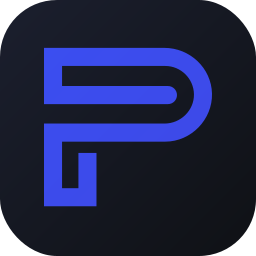
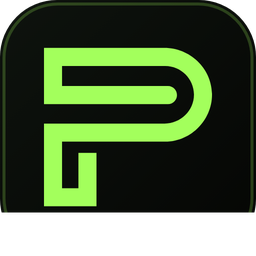
Web: skutečná značka místo zástupného kosočtverce (#22)
V hlavičce a patičce byl obecný kosočtverec — zástupný symbol z minula.
Teď je tam značka AgenticDev z brand/mark.svg, překlopená do fosforové
zelené; původní modrofialová na zeleno-černém webu neseděla.

Vkládá se rovnou do stránky, ne přes <img>, a barvu bere přes currentColor.

Přegenerované: site/mark.svg, site/icon.svg, site/agenticdev.ico (šest
velikostí) a brand/png/icon-*.png (osm velikostí). Přibyl SVG favicon a
apple-touch-icon.

site/og.png zůstává v modrofialové — je to obrázek s textem, ne jen
překlopení barev.

diff --git a/site/index.html b/site/index.html
@@ -6,7 +6,9 @@
 <title>AgenticDev — o tom, co agent smí, rozhoduje server</title>
 <meta name="description" content="Self-hosted platforma pro AI vývojové agenty. Co smí agent zapsat, vynucuje jádro podle fáze projektu. Jeden příkaz na instalaci, auditní stopa, kterou nejde přepsat. Zdarma do 1 M € obratu.">
 <meta name="theme-color" content="#050604">
-<link rel="icon" href="agenticdev.ico">
+<link rel="icon" href="agenticdev.ico" sizes="any">
+<link rel="icon" href="icon.svg" type="image/svg+xml">
+<link rel="apple-touch-icon" href="icon.svg">
 <meta property="og:title" content="AgenticDev">
 <meta property="og:description" content="Self-hosted platforma pro AI vývojové agenty. Co smí agent zapsat, vynucuje jádro podle fáze projektu — ne instrukce.">
 <meta property="og:image" content="og.png">
@@ -88,7 +90,7 @@
   }
   header .wrap{display:flex; align-items:center; gap:18px; height:58px}
   .brand{display:flex; align-items:center; gap:9px; font:700 14px/1 var(--mono); color:var(--ink); text-decoration:none}
-  .brand .mark{display:block; width:22px; height:22px; flex-shrink:0}
+  .brand .mark{display:block; width:26px; height:26px; flex-shrink:0; color:var(--fosfor)}
   nav{margin-left:auto; display:flex; align-items:center; gap:22px}
   .navlinks{display:flex; align-items:center; gap:22px}
   .navlinks a{
@@ -298,7 +300,7 @@
   footer{border-top:1px solid var(--line); padding:34px 0; color:var(--dim2); font-size:13px; font-family:var(--mono)}
   footer .wrap{display:flex; gap:18px; flex-wrap:wrap; align-items:center}
   footer .fbrand{display:flex; align-items:center; gap:8px; font-weight:700; color:var(--ink)}
-  footer .fbrand .mark{display:block; width:18px; height:18px; flex-shrink:0}
+  footer .fbrand .mark{display:block; width:20px; height:20px; flex-shrink:0; color:var(--fosfor)}
   footer a{color:var(--dim); text-decoration:none}
   footer a:hover{color:var(--fosfor)}
   footer .sp{margin-left:auto}
@@ -322,7 +324,7 @@
 <header>
   <div class="wrap">
     <a href="#top" class="brand">
-      <svg class="mark" viewBox="0 0 22 22" aria-hidden="true"><rect width="22" height="22" rx="4" fill="var(--fosfor)"/><path d="M11 5.6 16.4 11 11 16.4 5.6 11z" fill="#0a0f0a"/></svg>
+      <svg class="mark" viewBox="0 0 512 512" aria-hidden="true"><g transform="translate(88.00 95.75) scale(6.27200)"><path d="M16.7339 50.5077H0V24.1355H38.438C43.5694 24.1355 47.9064 19.931 47.8181 14.7926C47.7337 9.80024 43.65 5.76484 38.6452 5.76484H5.75706V12.1677H39.5241C41.1131 12.1677 42.4027 13.459 42.4027 15.0501C42.4027 16.6412 41.1131 17.9325 39.5241 17.9325H0V0H38.365C46.517 0 53.3795 6.42972 53.5714 14.5927C53.7633 22.7558 46.9968 29.9042 38.6452 29.9042H5.75706V44.7467H10.9768V33.4976H16.7339V50.5116V50.5077Z" fill="currentColor"/></g></svg>
       <span>AgenticDev<span style="color:var(--fosfor)">_</span></span>
     </a>
     <nav>
@@ -679,7 +681,7 @@
 
   <footer>
     <div class="wrap">
-      <span class="fbrand"><svg class="mark" viewBox="0 0 22 22" aria-hidden="true"><rect width="22" height="22" rx="4" fill="var(--fosfor)"/><path d="M11 5.6 16.4 11 11 16.4 5.6 11z" fill="#0a0f0a"/></svg>AgenticDev<span style="color:var(--fosfor)">_</span></span>
+      <span class="fbrand"><svg class="mark" viewBox="0 0 512 512" aria-hidden="true"><g transform="translate(88.00 95.75) scale(6.27200)"><path d="M16.7339 50.5077H0V24.1355H38.438C43.5694 24.1355 47.9064 19.931 47.8181 14.7926C47.7337 9.80024 43.65 5.76484 38.6452 5.76484H5.75706V12.1677H39.5241C41.1131 12.1677 42.4027 13.459 42.4027 15.0501C42.4027 16.6412 41.1131 17.9325 39.5241 17.9325H0V0H38.365C46.517 0 53.3795 6.42972 53.5714 14.5927C53.7633 22.7558 46.9968 29.9042 38.6452 29.9042H5.75706V44.7467H10.9768V33.4976H16.7339V50.5116V50.5077Z" fill="currentColor"/></g></svg>AgenticDev<span style="color:var(--fosfor)">_</span></span>
       <a href="https://github.com/Praut-Startup-Support/AgenticDev">GitHub</a>
       <a href="https://github.com/Praut-Startup-Support/AgenticDev/blob/main/LICENSE">
         <span class="cs">Licence</span><span class="en">Licence</span></a>
